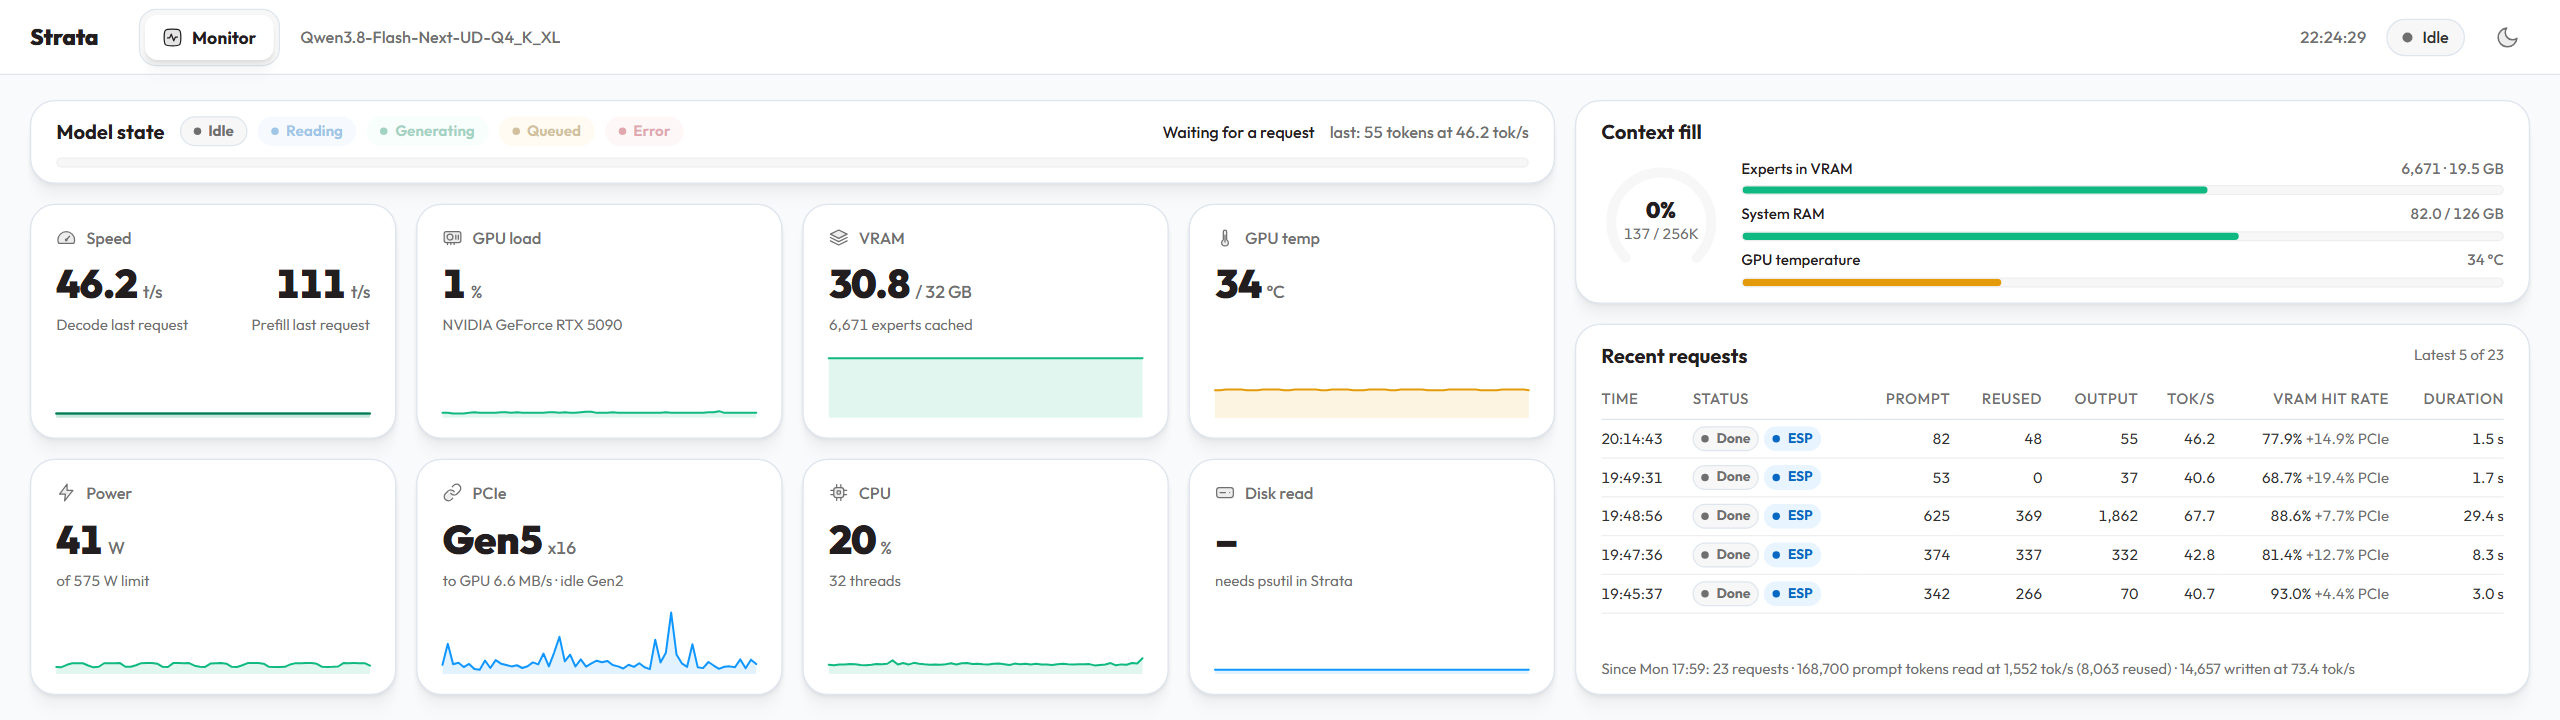
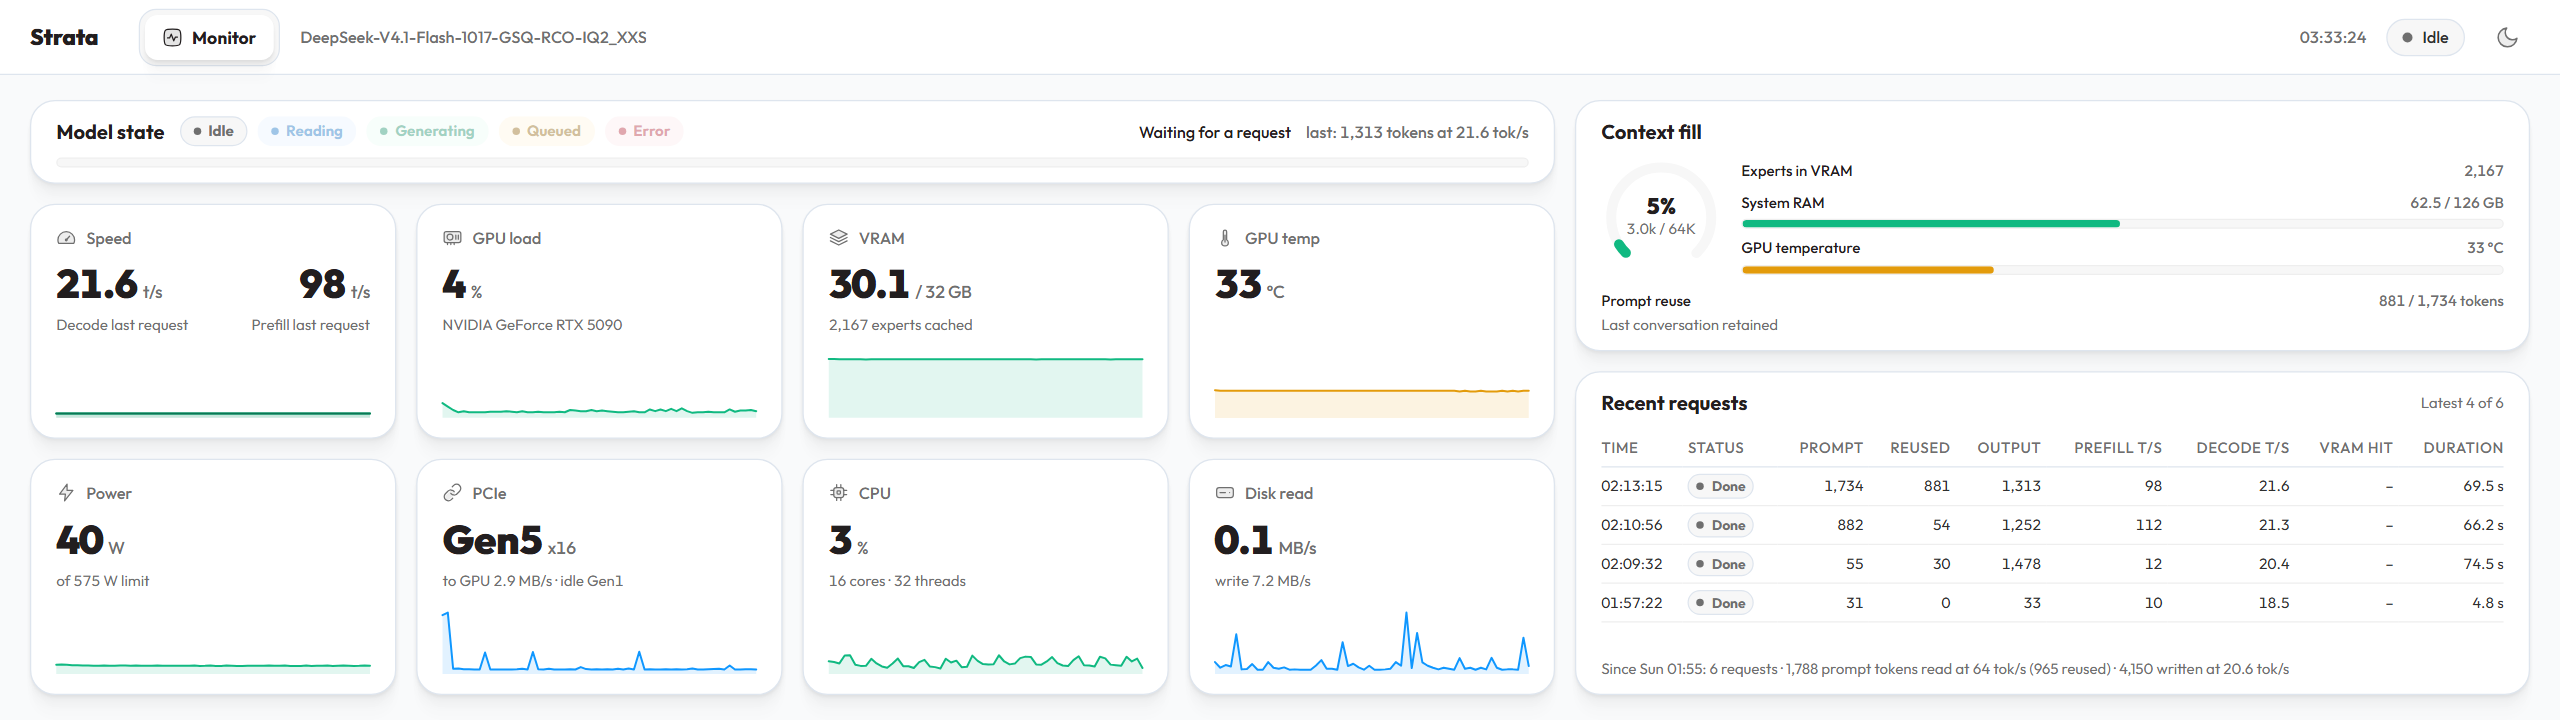
Support Strata 0.2.4 monitoring and DeepSeek telemetry

diff --git a/widget/app.js b/widget/app.js
@@ -103,7 +103,19 @@
     } else if (live.state === "generating") setPill("generating", `Generating · ${fmt(live.tok_s, 1)} tok/s`);
     else setPill("idle", "Idle");
     if (live.queued > 0) setPill("queued", `${live.queued} queued`);
+    renderConversationCache(m.conversation_cache);
     renderMonitor(live, hw, st, eng, h, last, requests, m.totals, m.requests_kept);
+  }
+
+  function renderConversationCache(cache) {
+    $("conversation-cache").hidden = !cache;
+    if (!cache) return;
+    $("cache-reuse").textContent = cache.last_prompt != null
+      ? `${fmt(cache.last_reused || 0)} / ${fmt(cache.last_prompt)} tokens`
+      : "–";
+    $("cache-detail").textContent = cache.enabled
+      ? `${fmt(cache.parked)} / ${fmt(cache.slots)} parked · ${gb(cache.bytes)} / ${gb(cache.budget_mib == null ? null : cache.budget_mib * 1048576)} GB`
+      : "Last conversation retained";
   }
 
   function renderTotals(t) {
@@ -157,11 +169,11 @@
     const per = (f) => (hw.gpus || []).map((g) => `GPU ${g.index} ${f(g)}`).join(" · ");
     const multi = (hw.gpus || []).length > 1;
     setMetric("gpu", hw.gpu_util == null ? null : fmt(hw.gpu_util), "%",
-              multi ? per((g) => (g.util == null ? "–" : `${fmt(g.util)}%`)) : st.gpu_name || "");
+              multi ? per((g) => (g.util == null ? "–" : `${fmt(g.util)}%`)) : st.gpu_name || (st.gpu_note ? "not available" : ""));
     spark("sp-gpu", h.gpu_util, 100);
     setMetric("vram", hw.gpu_mem_used == null ? null : gb(hw.gpu_mem_used), hw.gpu_mem_total ? `/ ${gb(hw.gpu_mem_total, 0)} GB` : "GB",
               multi ? per((g) => (g.mem_used == null ? "–" : `${gb(g.mem_used)} GB`))
-                    : eng.expert_slots ? `${fmt(eng.expert_slots)} experts cached` : "");
+                    : eng.expert_slots != null ? `${fmt(eng.expert_slots)} experts cached` : (st.gpu_note ? "not available on Windows AMD yet" : ""));
     spark("sp-vram", h.gpu_mem_used, hw.gpu_mem_total);
     setMetric("temp", hw.gpu_temp == null ? null : fmt(hw.gpu_temp), "°C",
               multi ? per((g) => (g.temp == null ? "–" : `${fmt(g.temp)}°`)) : "");
@@ -194,9 +206,12 @@
     $("ctx-fill").style.opacity = 235.6 * frac >= 3 ? "1" : "0";         // a near-zero arc would draw just its round cap
     $("ctx-pct").textContent = `${Math.round(frac * 100)}%`;
     $("ctx-sub").textContent = ctx ? `${kfmt(used)} / ${ctxfmt(ctx)}` : "–";
-    const cacheBytes = (eng.expert_cache_mib || 0) * 1048576;
-    $("slots-text").textContent = eng.expert_slots ? `${fmt(eng.expert_slots)} · ${gb(cacheBytes)} GB` : "–";
-    $("slots-bar").style.width = hw.gpu_mem_total ? `${Math.min(100, (100 * cacheBytes) / hw.gpu_mem_total)}%` : "0%";
+    // DeepSeek reports slot counts without expert_cache_mib. Do not invent a 0 GB measurement.
+    const cacheBytes = eng.expert_cache_mib == null ? null : eng.expert_cache_mib * 1048576;
+    $("slots-text").textContent = eng.expert_slots != null
+      ? `${fmt(eng.expert_slots)}${cacheBytes == null ? "" : ` · ${gb(cacheBytes)} GB`}` : "–";
+    $("slots-progress").hidden = cacheBytes == null;
+    $("slots-bar").style.width = cacheBytes != null && hw.gpu_mem_total ? `${Math.min(100, (100 * cacheBytes) / hw.gpu_mem_total)}%` : "0%";
     $("ram-text").textContent = hw.ram_total ? `${gb(hw.ram_used)} / ${gb(hw.ram_total, 0)} GB` : "–";
     const ramPct = hw.ram_total ? (100 * hw.ram_used) / hw.ram_total : 0;
     $("ram-bar").style.width = `${ramPct}%`;
@@ -207,7 +222,7 @@
     // recent requests: as many of the last 12 as fit the card
     const body = $("req-body");
     if (!requests.length) {
-      body.innerHTML = `<tr><td colspan="8" class="muted">No requests yet</td></tr>`;
+      body.innerHTML = `<tr><td colspan="9" class="muted">No requests yet</td></tr>`;
     } else {
       const badge = {stop: ["", "Done"], length: ["", "Max tokens"], cancel: ["st-badge--queued", "Stopped"],
                      disconnect: ["st-badge--queued", "Closed"], error: ["st-badge--error", "Error"]};
@@ -217,8 +232,10 @@
         const proj = r.projection == null ? "" : `<span class="st-badge${r.projection ? " st-badge--reading" : ""}" title="experimental speed projection ${r.projection ? "on" : "off"}">${r.projection ? "ESP" : "stock"}</span>`;
         const hit = r.hit_rate == null ? "–" : `${(r.hit_rate * 100).toFixed(1)}%` +
           (r.pcie_share ? ` <span class="muted">+${(r.pcie_share * 100).toFixed(1)}% PCIe</span>` : "");
+        const fresh = r.prompt_tokens == null ? null : Math.max(0, r.prompt_tokens - (r.reused || 0));
+        const prefillRate = fresh > 0 && r.prompt_ms > 0 ? fresh / (r.prompt_ms / 1000) : null;
         return `<tr><td>${esc(t)}</td><td><span class="st-badge ${cls}">${esc(text)}</span>${proj}</td><td class="num">${fmt(r.prompt_tokens)}</td>
-          <td class="num">${fmt(r.reused)}</td><td class="num">${fmt(r.output_tokens)}</td><td class="num">${fmt(r.decode_tok_s, 1)}</td>
+          <td class="num">${fmt(r.reused)}</td><td class="num">${fmt(r.output_tokens)}</td><td class="num">${fmt(prefillRate)}</td><td class="num">${fmt(r.decode_tok_s, 1)}</td>
           <td class="num">${hit}</td><td class="num">${fmt(r.duration_s, 1)} s</td></tr>`;
       }).join("");
     }
@@ -232,9 +249,10 @@
   function offline(reason) {
     setPill("error", reason === "auth_required" ? "API key needed" : "Server not reachable");
     renderMonitor({}, {}, {}, {}, {}, null, [], null, 0);
+    renderConversationCache(null);
     $("state-label").textContent = reason === "auth_required" ? "Strata requires an API key" : "Strata is not reachable";
     $("state-detail").textContent = "retrying every 2 s";
-    $("req-body").innerHTML = `<tr><td colspan="8" class="muted">Connection unavailable</td></tr>`;
+    $("req-body").innerHTML = `<tr><td colspan="9" class="muted">Connection unavailable</td></tr>`;
     $("model").textContent = "–"; $("model").title = "";
     $("ms-disk").textContent = "";
   }

diff --git a/widget/index.html b/widget/index.html
@@ -89,12 +89,16 @@
           </div>
           <div class="ctx-bars">
             <div class="bar-row"><span>Experts in VRAM</span><span class="muted" id="slots-text">&ndash;</span></div>
-            <div class="st-progress"><div class="st-progress__bar" id="slots-bar" style="width:0%"></div></div>
+            <div class="st-progress" id="slots-progress"><div class="st-progress__bar" id="slots-bar" style="width:0%"></div></div>
             <div class="bar-row"><span>System RAM</span><span class="muted" id="ram-text">&ndash;</span></div>
             <div class="st-progress" id="ram-progress"><div class="st-progress__bar" id="ram-bar" style="width:0%"></div></div>
             <div class="bar-row"><span>GPU temperature</span><span class="muted" id="temp-text">&ndash;</span></div>
             <div class="st-progress" data-tone="warn"><div class="st-progress__bar" id="temp-bar" style="width:0%"></div></div>
           </div>
+        </div>
+        <div id="conversation-cache" hidden>
+          <div class="bar-row"><span>Prompt reuse</span><span class="muted" id="cache-reuse">&ndash;</span></div>
+          <p class="muted cache-detail" id="cache-detail"></p>
         </div>
       </div>
 
@@ -103,8 +107,8 @@
         <div class="table-wrap">
           <table class="st-table">
             <thead><tr><th>Time</th><th>Status</th><th class="num">Prompt</th><th class="num">Reused</th><th class="num">Output</th>
-              <th class="num">Tok/s</th><th class="num">VRAM hit rate</th><th class="num">Duration</th></tr></thead>
-            <tbody id="req-body"><tr><td colspan="8" class="muted">No requests yet</td></tr></tbody>
+              <th class="num">Prefill t/s</th><th class="num">Decode t/s</th><th class="num">VRAM hit</th><th class="num">Duration</th></tr></thead>
+            <tbody id="req-body"><tr><td colspan="9" class="muted">No requests yet</td></tr></tbody>
           </table>
         </div>
         <p class="muted req-totals" id="req-totals"></p>

diff --git a/widget/widget.css b/widget/widget.css
@@ -64,13 +64,14 @@ body { position: relative; }
 .bar-row { display: flex; justify-content: space-between; gap: var(--st-s-2); font-size: var(--st-fs-xs); font-weight: var(--st-fw-medium);
            margin-top: 2px; font-variant-numeric: tabular-nums; white-space: nowrap; }
 .ctx-bars .bar-row:first-child { margin-top: 0; }
+.cache-detail { margin: 2px 0 0; font-size: var(--st-fs-xs); line-height: 1.3; }
 
 .req-card { flex: 1; display: flex; flex-direction: column; gap: var(--st-s-2); padding: var(--st-s-3) var(--st-s-5); min-width: 0; min-height: 0; }
 .req-head { display: flex; align-items: center; justify-content: space-between; gap: var(--st-s-2); }
 .table-wrap { flex: 1; min-height: 0; overflow: hidden; }
 .req-card .st-table { font-size: var(--st-fs-xs); }
-.req-card .st-table th { padding: 6px 6px; white-space: nowrap; }
-.req-card .st-table td { padding: 5px 6px; white-space: nowrap; }
+.req-card .st-table th { padding: 6px 4px; white-space: nowrap; }
+.req-card .st-table td { padding: 5px 4px; white-space: nowrap; }
 .req-card .st-table th:first-child, .req-card .st-table td:first-child { padding-left: 0; }
 .req-card .st-table th:last-child, .req-card .st-table td:last-child { padding-right: 0; }
 .req-card .st-table .st-badge { height: 20px; padding: 0 6px; font-size: 11px; }

diff --git a/scripts/layout-check.js b/scripts/layout-check.js
@@ -14,6 +14,8 @@ document.addEventListener('DOMContentLoaded', () => {
       const metricsW = document.querySelector(".metrics")?.offsetWidth;
       const reqW = document.querySelector(".req-card")?.offsetWidth;
       const cards = [...document.querySelectorAll(".metric-card")].map(c => c.offsetWidth);
-      document.body.dataset.check = JSON.stringify({rows: $("req-body").rows.length, pill: $("pill-text").textContent, bad, widths: { colLeft, metricsW, reqW, cards: cards.slice(0, 4) }});
+      const wrap = document.querySelector(".table-wrap");
+      const table = {width:wrap.clientWidth,scrollWidth:wrap.scrollWidth,height:wrap.clientHeight,scrollHeight:wrap.scrollHeight};
+      document.body.dataset.check = JSON.stringify({rows: $("req-body").rows.length, pill: $("pill-text").textContent, bad, table, widths: { colLeft, metricsW, reqW, cards: cards.slice(0, 4) }});
     }, 500);
 });

diff --git a/README.en.md b/README.en.md
@@ -1,14 +1,14 @@
-# Strata Edge 0.1.5
+# Strata Edge 0.2.0
 
 [日本語](README.md) | [English](README.en.md)
 
-A community iCUE widget that adapts the official Strata v0.1.39 Web UI **Monitor** for CORSAIR XENEON EDGE (2560×720). Created by rvhfxb. This is not an official Strata or CORSAIR product.
+A community iCUE widget that adapts the official Strata v0.2.4 Web UI **Monitor** for CORSAIR XENEON EDGE (2560×720). Created by rvhfxb. This is not an official Strata or CORSAIR product.
 
-[Download the release](https://github.com/rvhfxb/xeneon-edge-strata-widget/releases/tag/v0.1.5). For a first installation, use the ZIP containing the helper. If you already have a compatible helper, use the `.icuewidget` file. GitHub's “Source code” ZIP contains development sources.
+[Download the release](https://github.com/rvhfxb/xeneon-edge-strata-widget/releases/tag/v0.2.0). For a first installation, use the ZIP containing the helper. If you already have a compatible helper, use the `.icuewidget` file. GitHub's “Source code” ZIP contains development sources.
 
 ## Screenshots
 
-Browser previews at 2560×720, captured with v0.1.5 and real monitoring data. For publication, the model display name is replaced with `Qwen3.8-Flash-Next-UD-Q4_K_XL`, the downloaded GGUF filename with the shard number and extension omitted. These are not photographs of the XENEON EDGE display. While idle, speed numbers show the last request; graphs show the official 60-second history.
+Browser previews at 2560×720, captured with v0.2.0 and real monitoring data. For publication, the model display name is replaced with `DeepSeek-V4.1-Flash-1017-GSQ-RCO-IQ2_XXS`, the downloaded GGUF filename with the shard number and extension omitted. These are not photographs of the XENEON EDGE display. While idle, speed numbers show the last request; graphs show the official 60-second history.
 
 **Dark**
 
@@ -22,20 +22,22 @@ Browser previews at 2560×720, captured with v0.1.5 and real monitoring data. Fo
 
 - Windows 11, XENEON EDGE, and iCUE 5.51 or later.
 - Node.js 22 or later available on PATH. Node.js is not included in the ZIP.
-- Strata running on the same PC. Tested with v0.1.39 using the `/health` and `/metrics` APIs. The default upstream address is `http://127.0.0.1:8086`.
+- Strata running on the same PC. Supports v0.2.4 releases (Terminal 0.2.4.2, DeepSeek / Qwen) through the `/health` and `/metrics` APIs, with regression coverage for the older v0.1.39 format. The default upstream address is `http://127.0.0.1:8086`.
 - Monitoring APIs that do not require an API key. Authenticated connections are not supported in this version.
 
 ## First installation
 
-1. Extract `strata-edge-0.1.5.zip` into a **writable folder that will remain in place**. Do not run it from inside the ZIP.
-2. If Strata uses a port other than 8086, edit `strataUrl` in `helper.config.json`, for example `http://127.0.0.1:8080`. Configure one upstream server.
+1. Extract `strata-edge-0.2.0.zip` into a **writable folder that will remain in place**. Do not run it from inside the ZIP.
+2. If Strata uses a port other than 8086, edit `strataUrl` in `helper.config.json`, for example `http://127.0.0.1:8080`. For DeepSeek, use the port of its running server as well. Configure one upstream server.
 3. Run `Install-Helper.cmd`. It registers the `Strata Edge Helper` scheduled task for the current user, starts it now, and configures it to run hidden at logon.
 4. Open `http://127.0.0.1:5199/` in a browser and check that the model name and state appear.
-5. In iCUE's XENEON EDGE widget interface, import the included `strata-edge-0.1.5.icuewidget` and place it across the full display.
+5. In iCUE's XENEON EDGE widget interface, import the included `strata-edge-0.2.0.icuewidget` and place it across the full display.
 
 The CMD launchers use PowerShell's Bypass execution policy for that process only. They do not change the system-wide policy. If your organization prohibits script execution, follow its policy.
 
 Importing the widget alone does not provide monitoring data: a helper must also be running. Use the release ZIP for a first installation. Keep the installation folder and Node.js location unchanged after installation.
+
+To keep personal settings across source updates, create `helper.local.json` in the same folder. It uses the same format as `helper.config.json` and takes precedence when present, for example `{"strataUrl":"http://127.0.0.1:8091"}`. It is excluded from Git and release ZIPs. Stop → Start the helper after changing it.
 
 ## Using an existing Strata helper
 
@@ -45,13 +47,15 @@ To migrate to the new helper, run `Stop-Widget.ps1` in the existing installation
 
 ## Display behavior
 
-- Uses the official Outfit font, colors, cards, icons, labels, and calculations. CSS is checked against a pinned Strata v0.1.39 commit and hashes; only two font URLs in `tokens.css` are changed to use the bundled fonts. The 2048×576 CSS-pixel canvas scales by 1.25 at full resolution and proportionally for smaller areas.
-- Model state and a four-column, two-row metrics grid are on the left. Context fill and Recent requests are on the right, showing the latest five requests that fit in the area, with up to 12 available.
+- Uses the official Outfit font, colors, cards, icons, labels, and calculations. CSS is checked against a pinned Strata v0.2.4 commit and hashes; only two font URLs in `tokens.css` are changed to use the bundled fonts. The 2048×576 CSS-pixel canvas scales by 1.25 at full resolution and proportionally for smaller areas.
+- Model state and a four-column, two-row metrics grid are on the left. Context fill and Recent requests are on the right, showing as many of the latest requests as fit in the area, up to 12.
 - Displays Decode / Prefill, GPU load / VRAM / temperature / power / PCIe, CPU / Disk read, System RAM / Experts, context, requests, and totals. There is no server selector.
-- **Speed numbers and graphs follow official v0.1.39 behavior.** Numbers show current values during processing and the last request's average while idle. Graphs show samples from the last 60 seconds; Prefill is zero when no prompt is being processed. A graph can therefore be zero while a speed number remains visible. Missing graph samples are also drawn as zero, matching the official UI.
+- **Speed numbers and graphs follow official v0.2.4 behavior.** Numbers show current values during processing and the last request's average while idle. Graphs show samples from the last 60 seconds; Prefill is zero when no prompt is being processed. A graph can therefore be zero while a speed number remains visible. Missing graph samples are also drawn as zero, matching the official UI.
 - Starts in dark mode. Header theme changes are saved. Changing Theme in iCUE settings applies the new value; notifications with an unchanged setting do not override a header selection.
 - Fetches data every two seconds. The helper sends only GET requests to `/health` and `/metrics`; it does not request model loading, unloading, or inference. Failed requests and data older than 10 seconds clear speed and other affected values to unavailable indicators.
 - Context fill estimates input plus output occupancy, not actual KV memory usage. Memory uses the official 1024-based units. Disk read is unavailable if Strata's Python environment lacks psutil; this helper does not install it.
+- Following the latest Monitor, Recent requests shows Prefill / Decode rates. A compact conversation-cache summary shows the last prompt's reused tokens, parked conversations, and memory. It is hidden for older servers without cache information.
+- When only an expert count is reported, as with DeepSeek, only that count is displayed. An unknown capacity is not guessed as 0 GB, and its capacity bar is hidden. Unreported values such as VRAM hit rate remain unavailable.
 
 ## Start, stop, update, and uninstall
 
@@ -77,19 +81,21 @@ These operations do not stop Strata itself. The task runs as the current user wi
 
 If `strataUrl` is missing or null, the default upstream on port 8086 is used. `localhost` is normalized to `127.0.0.1`. For IPv6, specify `http://[::1]:PORT` explicitly.
 
+Strata's Terminal/app version and its engine version are separate. For the v0.2.4 release, the Terminal reports 0.2.4.2 and Desktop remains 0.2.3. This widget connects to an already-running server's monitoring API; it does not update or start Strata or its engines.
+
 The helper listens only on `127.0.0.1:5199`. Upstream configuration also accepts only local HTTP origins using localhost / 127.0.0.1 / ::1. Do not include API paths or credentials in the URL, or store API keys or secrets in the configuration file.
 
 ## Licenses
 
 This project: MIT (`LICENSE`). Strata-derived code, CSS, and icons: MIT (`widget/resources/STRATA-LICENSE.txt`). Outfit: SIL OFL 1.1 (`widget/resources/fonts/OFL.txt`). See `THIRD-PARTY-NOTICES.md` for details.
 
-`SHA256SUMS.txt` inside the release ZIP lists the bundled file hashes. Verify the ZIP and icuewidget themselves with the separate `strata-edge-0.1.5-SHA256SUMS.txt` file.
+`SHA256SUMS.txt` inside the release ZIP lists the bundled file hashes. Verify the ZIP and icuewidget themselves with the separate `strata-edge-0.2.0-SHA256SUMS.txt` file.
 
-## Validation and limitations — 2026-10-05
+## Validation and limitations — 2026-10-25
 
-Verified Node helper HTTP tests, PowerShell syntax and mocked task operations, Chrome file:// state and theme regression checks, layouts at 2560×720 / 1280×360 / 736×207, official CLI 0.4.47 validate / package, ZIP contents, and matching hashes.
+Verified Node helper HTTP tests, PowerShell syntax and mocked task operations, Chrome file:// checks for the older Qwen format and latest DeepSeek format, state and theme regressions, live DeepSeek data, layouts at 2560×720 / 1280×360 / 736×207, official CLI 0.4.47 validate / package, ZIP contents, and matching hashes.
 
-**Actual iCUE import, physical touch interaction, and automatic startup after Windows logon have not been verified for 0.1.5.** Creating release files does not update an existing helper or Strata installation.
+**Actual iCUE import, physical touch interaction, and automatic startup after Windows logon have not been verified for 0.2.0.** Creating release files does not update an existing helper or Strata installation.
 
 The layout normally follows ResizeObserver and resize events. Only embedded browsers without ResizeObserver retain the one-second recalculation fallback previously found effective in iCUE.
 

diff --git a/THIRD-PARTY-NOTICES.md b/THIRD-PARTY-NOTICES.md
@@ -2,11 +2,11 @@
 
 Strata Edge is an independent community widget by rvhfxb. It is not an official Strata or CORSAIR product.
 
-## Strata v0.1.39
+## Strata v0.2.4
 
 Monitor rendering adapted from `serve/web/app.js`; design tokens, components, font declarations and inline SVG icons derived from the Strata Web UI.
 
-CSS is pinned to commit `6f32ec070f23ced9f50e704d854d775da52591ab` (v0.1.39). The only tokens.css substitutions are the two font URLs from `../fonts/` to `resources/fonts/`; components.css matches upstream. Source hash records are in the development repository's `upstream-assets.json`.
+CSS is pinned to commit `96ca4383c7b05a8a3e6064c65d9e9977d4b3bb59` (v0.2.4). The only tokens.css substitutions are the two font URLs from `../fonts/` to `resources/fonts/`; components.css matches upstream. Source hash records are in the development repository's `upstream-assets.json`.
 
 Copyright (c) 2026 Niko1221 and the Strata contributors. MIT license.
 Full notice: `widget/resources/STRATA-LICENSE.txt`.

diff --git a/CHANGELOG.md b/CHANGELOG.md
@@ -1,5 +1,14 @@
 # Changelog
 
+## 0.2.0 — 2026-10-25
+
+- Support Strata v0.2.4 monitoring APIs (Terminal 0.2.4.2), including DeepSeek, while retaining Qwen/older-server compatibility.
+- Match the latest Monitor's per-request Prefill / Decode rates and show a compact prompt-reuse / conversation-cache summary.
+- Display DeepSeek expert counts without claiming 0 GB when the engine does not report cache capacity; keep missing hit rates unavailable.
+- Allow an untracked helper.local.json to override the shared upstream configuration without entering release ZIPs.
+- Pin official CSS to v0.2.4 commit 96ca4383c7b05a8a3e6064c65d9e9977d4b3bb59; retain official idle and missing-sample graph behavior.
+- Expand regression coverage for DeepSeek telemetry, conversation cache, and real zero versus missing cache capacity. Update English/Japanese documentation and screenshots.
+
 ## 0.1.5 — 2026-10-05
 
 - Make Stop/Uninstall safe for Ready/Disabled tasks, including a task finishing during Stop.
